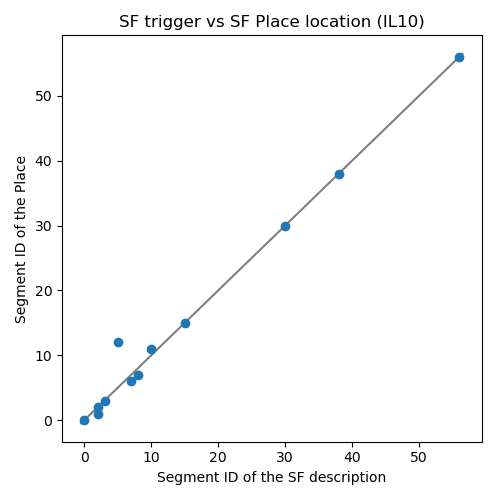
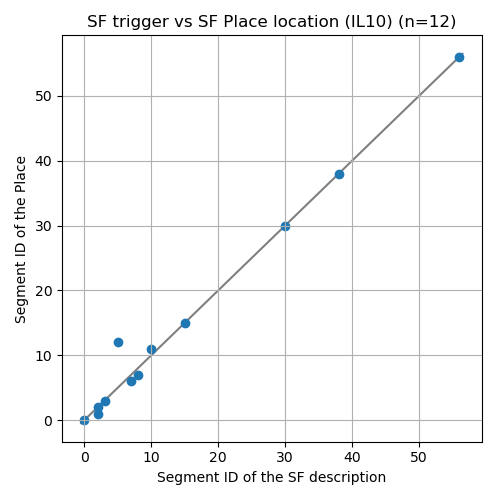
Update figures

diff --git a/get_loc_stats.py b/get_loc_stats.py
@@ -160,7 +160,8 @@ def print_stats(sfs, docs, ignore_doc_no_sf=False, span_to_entity_id={}, entitie
     # plt.scatter(seg_nums, loc_seg_nums, c=counts)
     plt.ylabel('Segment ID of the Place')
     plt.xlabel('Segment ID of the SF description')
-    plt.title('SF trigger vs SF Place location ({})'.format(lang))
+    plt.title('SF trigger vs SF Place location ({}) (n={})'.format(lang, len(seg_nums)))
+    plt.grid()
     plt.tight_layout()
     plt.savefig(scatter_figpath)
 
